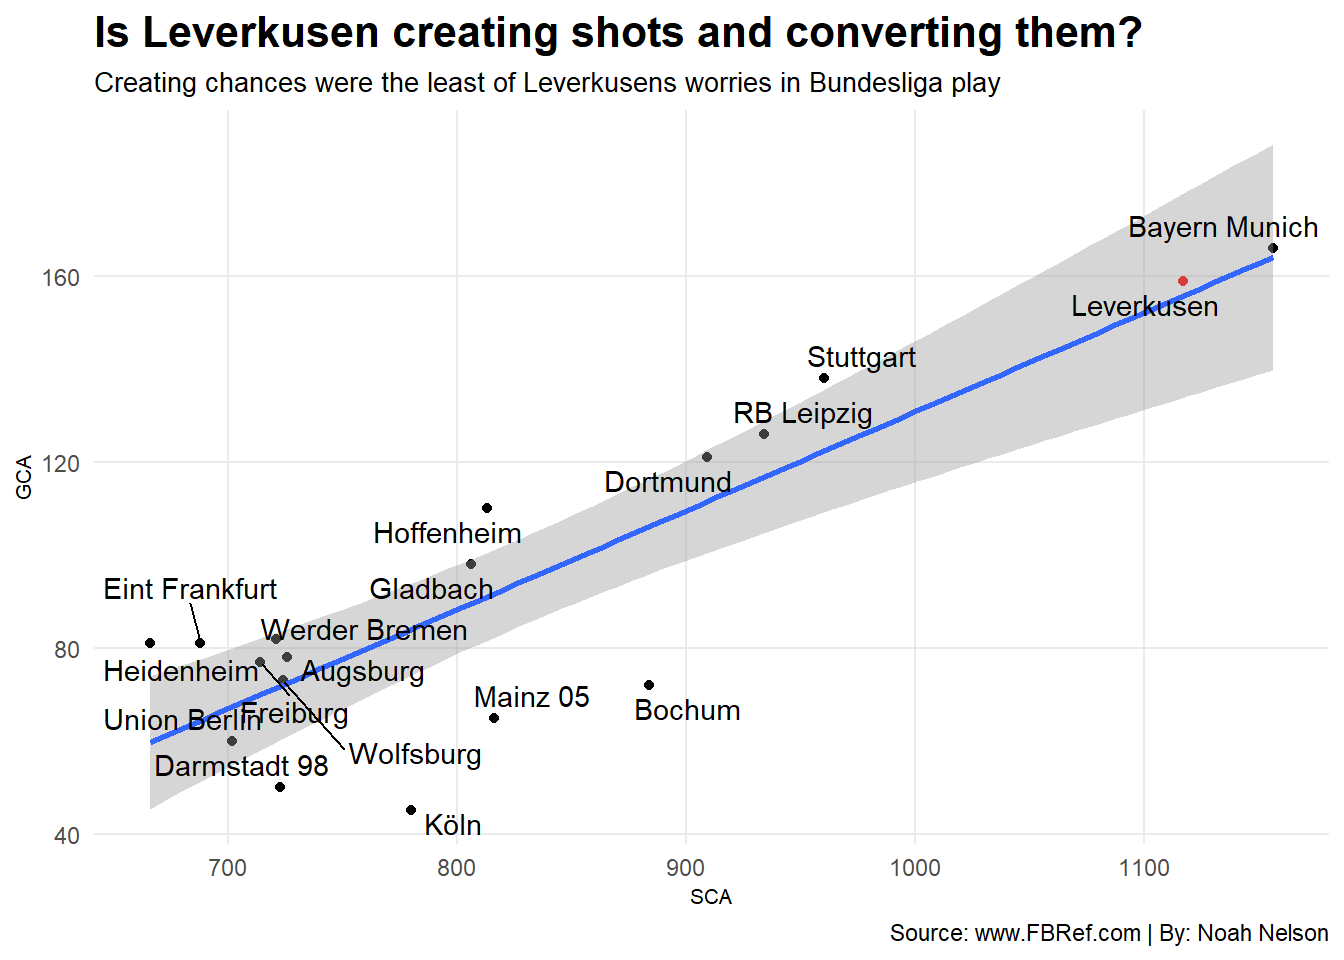
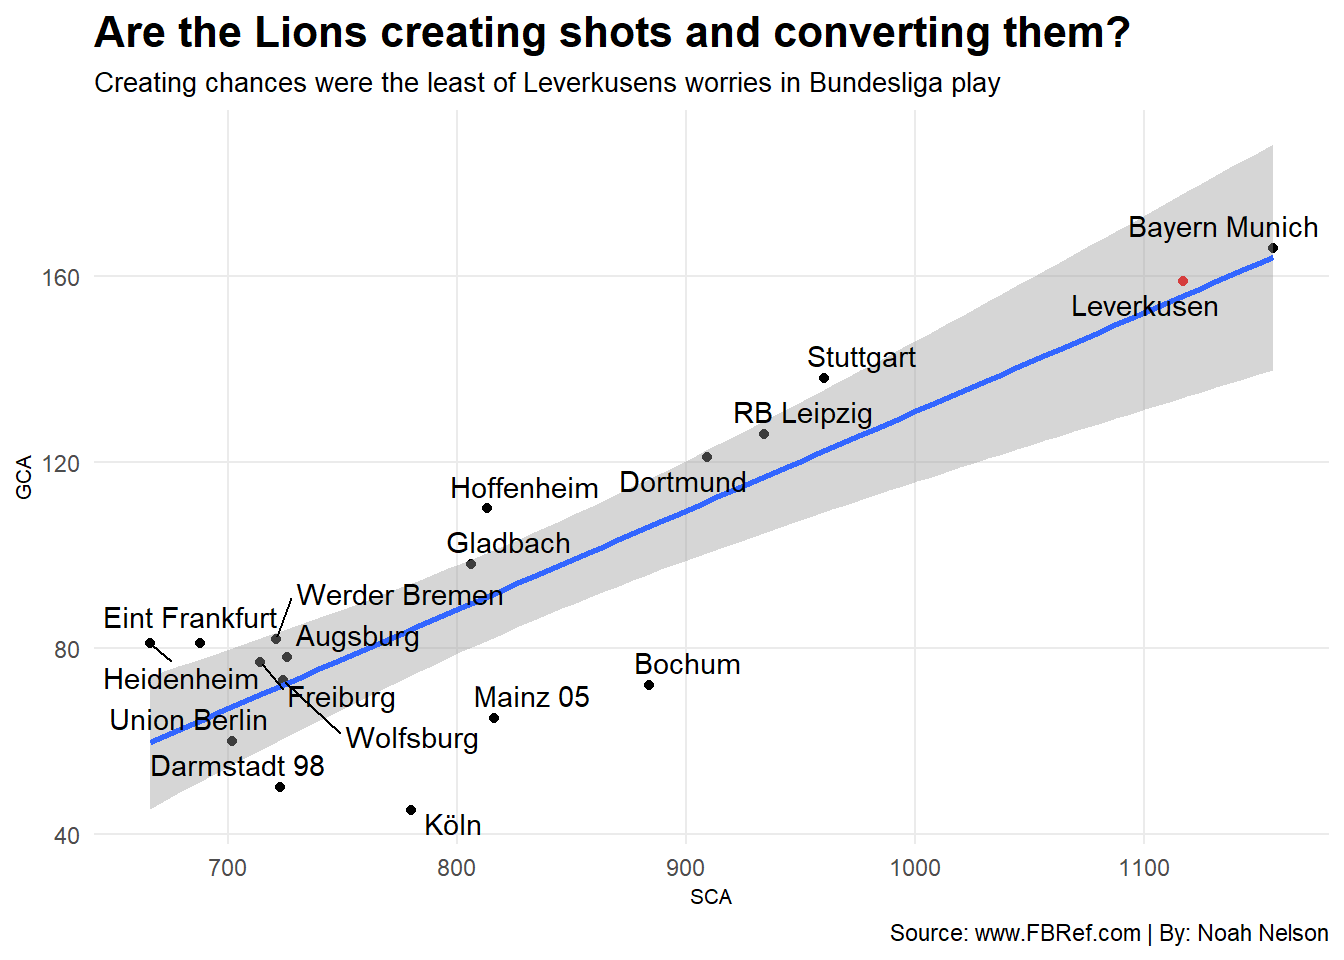
code updated

Changed region(s): [[0.0625, 0.4688, 0.5625, 0.8125], [0.0625, 0.0, 0.8438, 0.0625], [0.4688, 0.6875, 0.5625, 0.75]]

diff --git a/posts/Leverkusen-and-undefeated-season/index.html b/posts/Leverkusen-and-undefeated-season/index.html
@@ -226,7 +226,7 @@ pre > code.sourceCode > span > a:first-child::before { text-decoration: underlin
 <span id="cb1-27"><a href="#cb1-27" aria-hidden="true" tabindex="-1"></a>  <span class="fu">labs</span>(</span>
 <span id="cb1-28"><a href="#cb1-28" aria-hidden="true" tabindex="-1"></a>    <span class="at">y =</span> <span class="st">"Goals"</span>,</span>
 <span id="cb1-29"><a href="#cb1-29" aria-hidden="true" tabindex="-1"></a>    <span class="at">x =</span> <span class="st">"Squad"</span>,</span>
-<span id="cb1-30"><a href="#cb1-30" aria-hidden="true" tabindex="-1"></a>    <span class="at">title =</span> <span class="st">"Bayer Leverkusen couldn't be stopped in league play"</span>,</span>
+<span id="cb1-30"><a href="#cb1-30" aria-hidden="true" tabindex="-1"></a>    <span class="at">title =</span> <span class="st">"Bayer Leverkusen were hard to stop in league play"</span>,</span>
 <span id="cb1-31"><a href="#cb1-31" aria-hidden="true" tabindex="-1"></a>    <span class="at">subtitle =</span> <span class="st">"The Lions have made the most out of there shot chances"</span>,</span>
 <span id="cb1-32"><a href="#cb1-32" aria-hidden="true" tabindex="-1"></a>    <span class="at">caption=</span><span class="st">"Source: www.FBRef.com | By: Noah Nelson"</span>) <span class="sc">+</span></span>
 <span id="cb1-33"><a href="#cb1-33" aria-hidden="true" tabindex="-1"></a>   <span class="fu">theme_minimal</span>() <span class="sc">+</span></span>
@@ -261,7 +261,7 @@ pre > code.sourceCode > span > a:first-child::before { text-decoration: underlin
 <span id="cb2-6"><a href="#cb2-6" aria-hidden="true" tabindex="-1"></a>  <span class="fu">geom_point</span>(<span class="at">data =</span> gcaleverkusen, <span class="fu">aes</span>(<span class="at">x =</span> SCA, <span class="at">y =</span> GCA),<span class="at">color=</span><span class="st">"red"</span>) <span class="sc">+</span></span>
 <span id="cb2-7"><a href="#cb2-7" aria-hidden="true" tabindex="-1"></a>  <span class="fu">geom_smooth</span>(<span class="at">data =</span> gcabundesliga, <span class="fu">aes</span>(<span class="at">x =</span> SCA, <span class="at">y =</span> GCA), <span class="at">method=</span><span class="st">"lm"</span>) <span class="sc">+</span></span>
 <span id="cb2-8"><a href="#cb2-8" aria-hidden="true" tabindex="-1"></a>  <span class="fu">geom_text_repel</span>(<span class="at">data=</span>gcabundesliga, <span class="fu">aes</span>(<span class="at">x=</span> SCA, <span class="at">y=</span> GCA, <span class="at">label=</span> Squad)) <span class="sc">+</span></span>
-<span id="cb2-9"><a href="#cb2-9" aria-hidden="true" tabindex="-1"></a>    <span class="fu">labs</span>(<span class="at">title =</span> <span class="st">"Is Leverkusen creating shots and converting them?"</span>,</span>
+<span id="cb2-9"><a href="#cb2-9" aria-hidden="true" tabindex="-1"></a>    <span class="fu">labs</span>(<span class="at">title =</span> <span class="st">"Are the Lions creating shots and converting them?"</span>,</span>
 <span id="cb2-10"><a href="#cb2-10" aria-hidden="true" tabindex="-1"></a>       <span class="at">subtitle =</span> <span class="st">"Creating chances were the least of Leverkusens worries in Bundesliga play "</span>,</span>
 <span id="cb2-11"><a href="#cb2-11" aria-hidden="true" tabindex="-1"></a>       <span class="at">caption=</span><span class="st">"Source: www.FBRef.com | By: Noah Nelson"</span>) <span class="sc">+</span></span>
 <span id="cb2-12"><a href="#cb2-12" aria-hidden="true" tabindex="-1"></a>  <span class="fu">theme_minimal</span>() <span class="sc">+</span></span>

diff --git a/index.html b/index.html
@@ -205,7 +205,7 @@ window.Quarto = {
 
 <div class="quarto-listing quarto-listing-container-default" id="listing-listing">
 <div class="list quarto-listing-default">
-<div class="quarto-post image-right" data-index="0" data-categories="QnVuZGVzbGlnYSxGSUZBLFNvY2Nlcg==" data-listing-date-sort="1730786400000" data-listing-file-modified-sort="1731895215378" data-listing-date-modified-sort="NaN" data-listing-reading-time-sort="5" data-listing-word-count-sort="873">
+<div class="quarto-post image-right" data-index="0" data-categories="QnVuZGVzbGlnYSxGSUZBLFNvY2Nlcg==" data-listing-date-sort="1730786400000" data-listing-file-modified-sort="1731895350254" data-listing-date-modified-sort="NaN" data-listing-reading-time-sort="5" data-listing-word-count-sort="875">
 <div class="thumbnail">
 <p><a href="./posts/Leverkusen-and-undefeated-season/index.html" class="no-external"></a></p><a href="./posts/Leverkusen-and-undefeated-season/index.html" class="no-external">
 <p class="card-img-top"><img src="posts\Leverkusen-and-undefeated-season\index_files\figure-html\unnamed-chunk-1-1.png"  class="thumbnail-image card-img"/></p>
